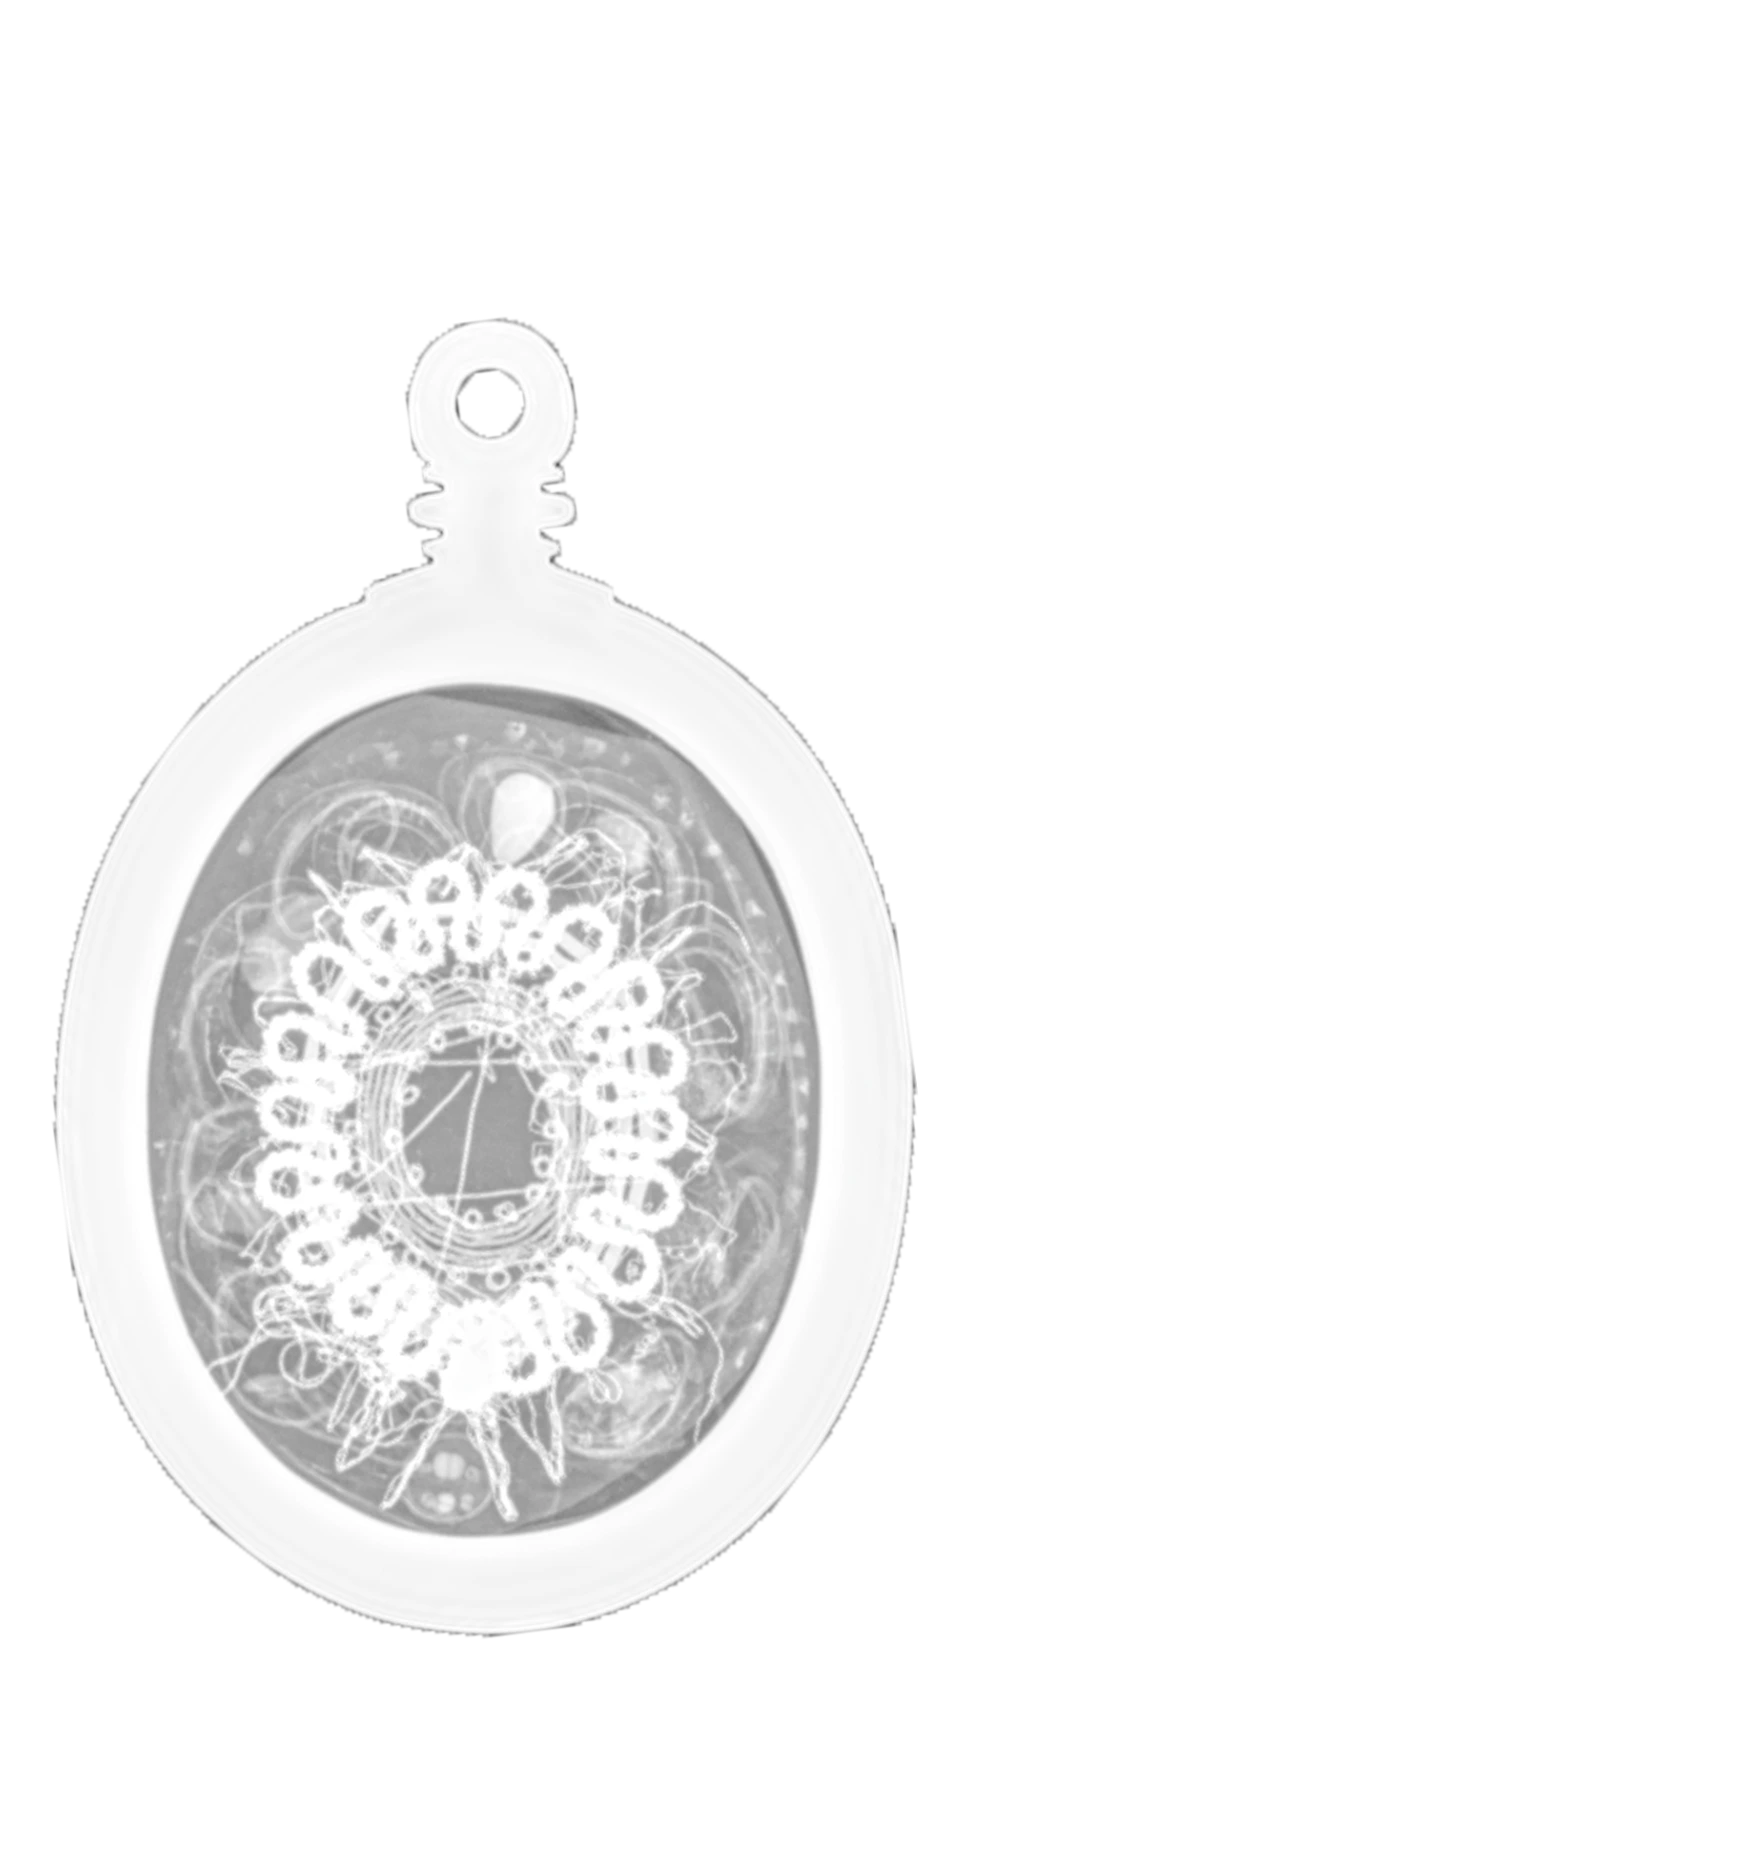
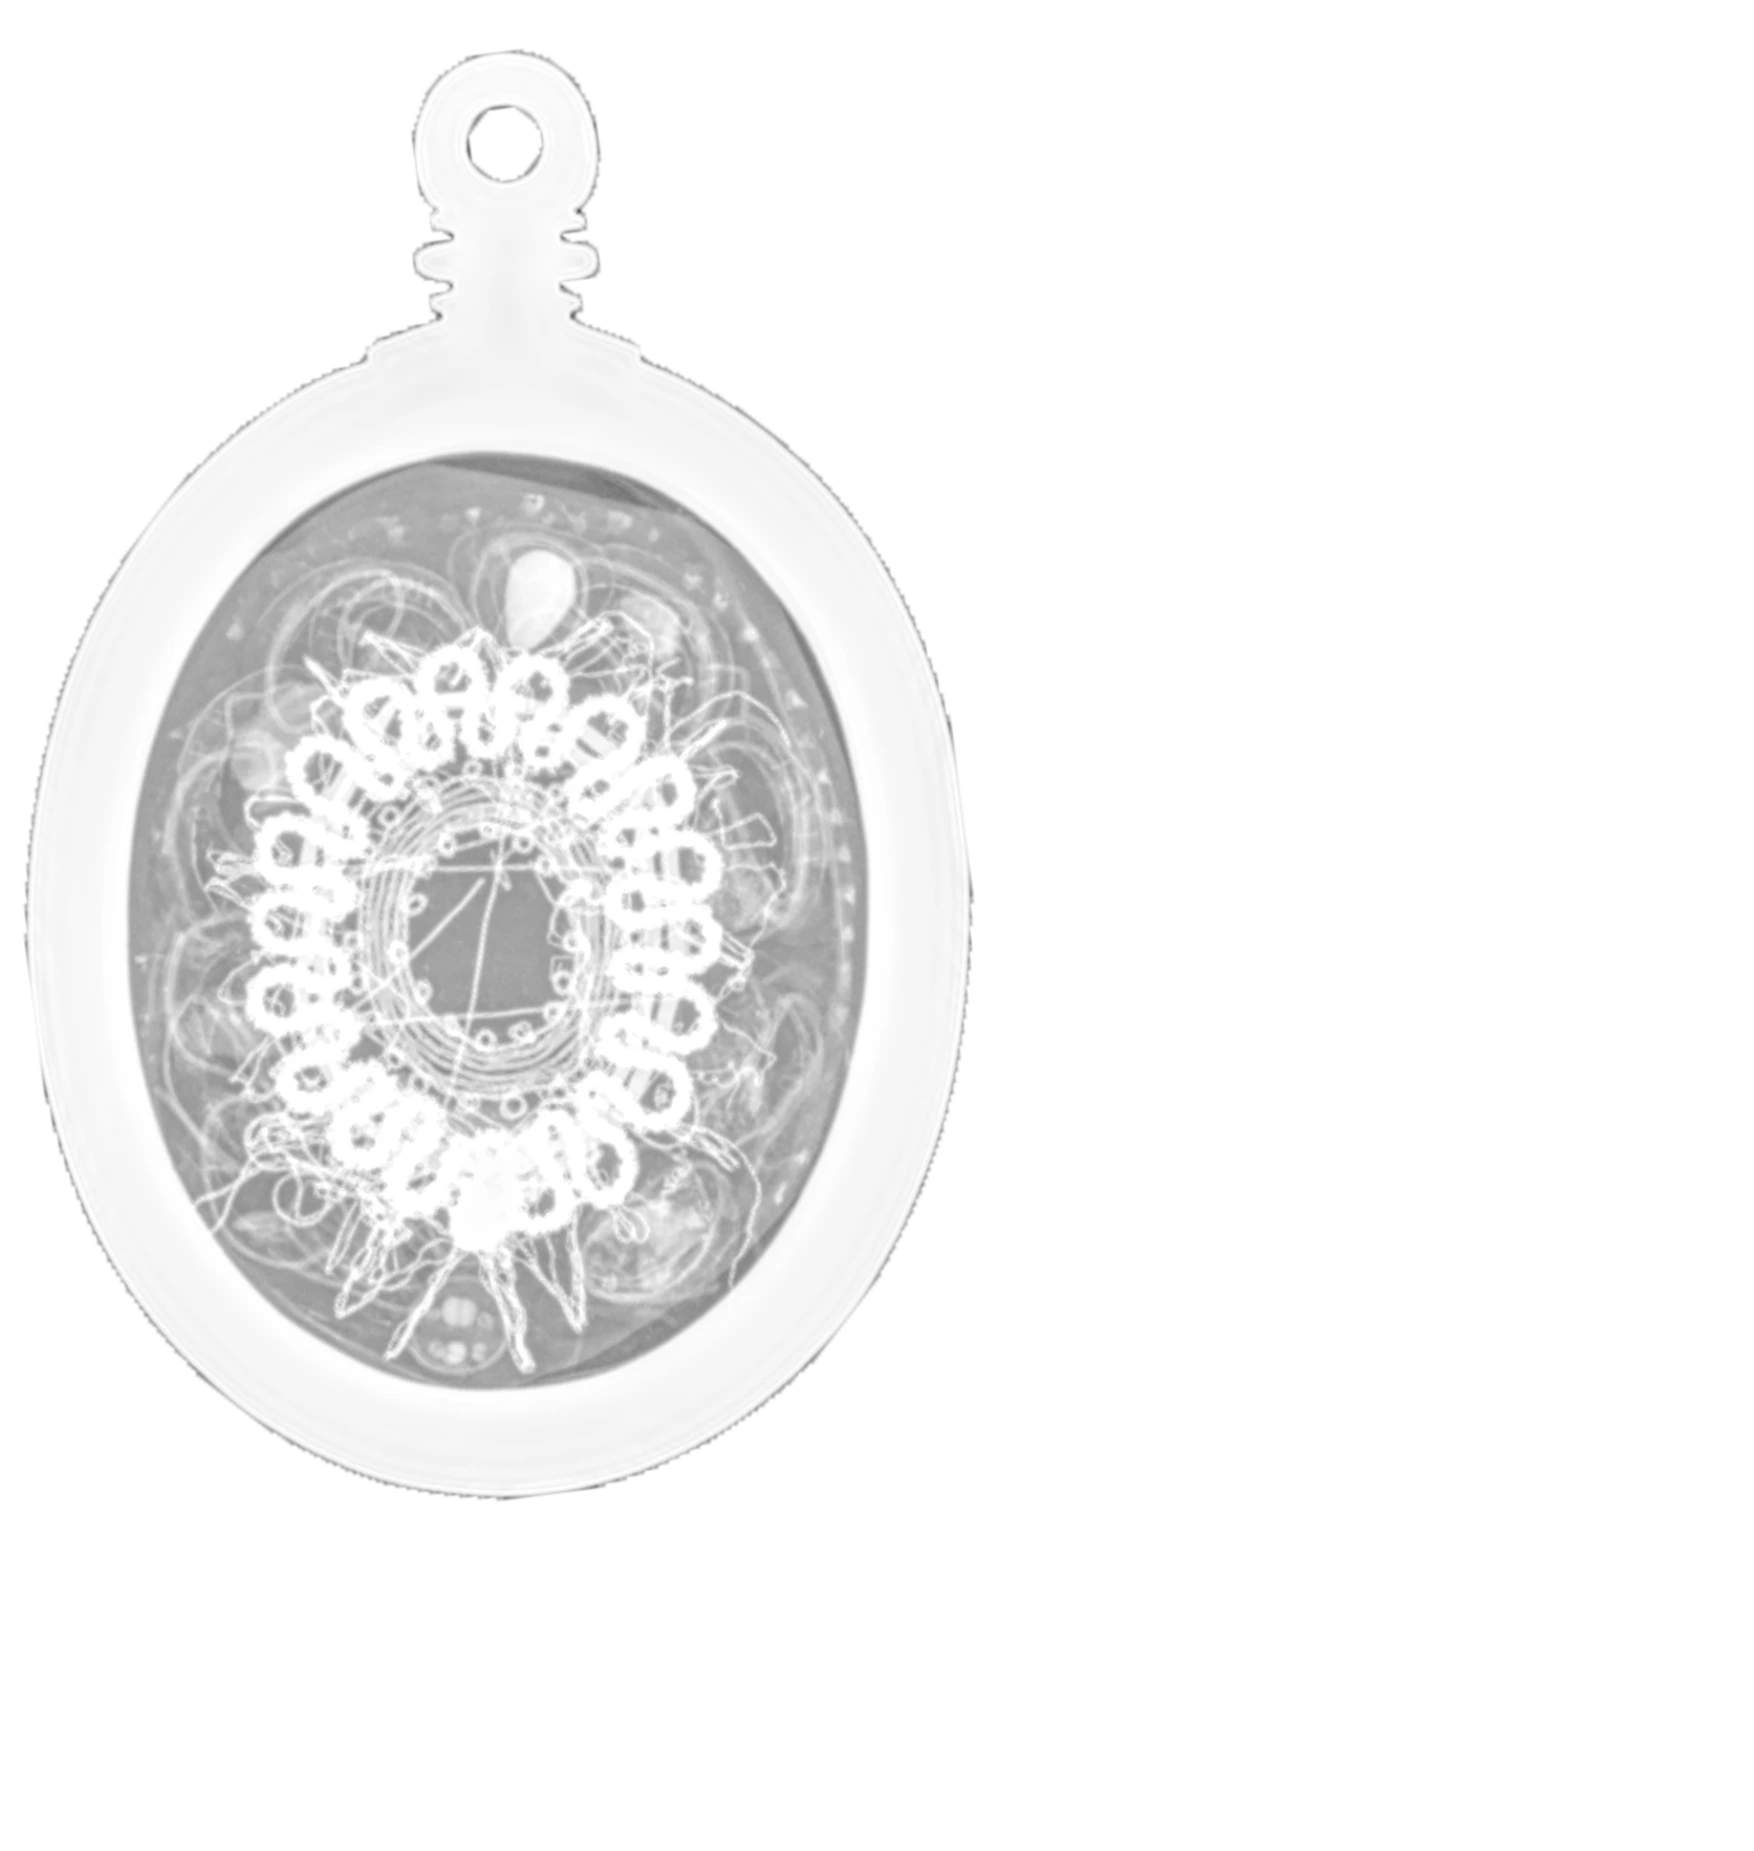
Relicario: endereza el original (registrado con el RX) + micro1 sin fragmento
Tres correcciones del feedback:
- INCLINADO: el RELICARIOORIGINAL venia inclinado ~8° y desplazado respecto al
  RELICARIORX (el equipo los entrego desalineados). Medido por busqueda de
  registro (IoU): NO era rotacion sino desplazamiento (centroides a ~96px).
  Ahora ambos se colocan por centroide en la posicion del rayos X del composite
  (donde apuntan las flechas) -> el crossfade calza y la reliquia queda derecha.
- micro1 traia un pedazo del ultimo circulo: el recorte del titulo MICROSCOPIA
  agarraba el borde inferior del circulo 4. Bajado el recorte (y>0.93) -> limpio.
- Secuencia mas clara: el original aparece y sostiene, LUEGO entra el rayos X
  (a su opacidad de slider), y recien despues las microscopias.

Verificado con render: crossfade original<->rx alineado y derecho, flechas
apuntando a la reliquia, micro1 sin fragmento. Cache-bust ?v=6, config.js?v=11.

diff --git a/relicario/config.js b/relicario/config.js
@@ -29,22 +29,22 @@ window.MUSEO_CONFIG = {
   // Geometría de las capas (full-frame) sobre el RA6. Todo se posiciona igual.
   // Como el RA6 son solo letras, la posición es preferencia -> align.html.
   overlay: {
-    src: "assets/original.webp?v=5",      // lo que muestra align.html
+    src: "assets/original.webp?v=6",      // lo que muestra align.html
     width: 1.55,
     height: 1.636,
     offsetX: 0.36,
     offsetY: 0.0
   },
 
-  original: "assets/original.webp?v=5",   // foto a color (base)
-  rx:       "assets/rx.webp?v=5",         // radiografía (opacidad por slider)
+  original: "assets/original.webp?v=6",   // foto a color (base)
+  rx:       "assets/rx.webp?v=6",         // radiografía (opacidad por slider)
 
   intervaloReveal: 0.9,
   reveals: [
-    "assets/micro1.webp?v=5",             // columna esmaltada + flecha (+ título)
-    "assets/micro2.webp?v=5",             // cristales verdes + flecha
-    "assets/micro3.webp?v=5",             // concreción mineral + flecha
-    "assets/micro4.webp?v=5"              // figura azul + flecha
+    "assets/micro1.webp?v=6",             // columna esmaltada + flecha (+ título)
+    "assets/micro2.webp?v=6",             // cristales verdes + flecha
+    "assets/micro3.webp?v=6",             // concreción mineral + flecha
+    "assets/micro4.webp?v=6"              // figura azul + flecha
   ],
 
   // 4 microscopías tocables (coords normalizadas sobre el marco) — solo para el zoom.

diff --git a/relicario/relicario-engine.js b/relicario/relicario-engine.js
@@ -107,10 +107,11 @@ async function start() {
   const placa = $("loading").querySelector(".creditos"); if (placa) $("scan").appendChild(placa.cloneNode(true));
   $("loading").style.display = "none";
 
-  // Tiempos (s desde la detección)
+  // Tiempos (s desde la detección): PRIMERO el original (y sostiene), LUEGO el
+  // rayos X entra a su opacidad de slider, y recién después las microscopías.
   const T_ORIG = [0.2, 1.0];   // original aparece
-  const T_RX   = [1.0, 1.7];   // rayos X entra (a su opacidad de slider)
-  const T_MIC0 = 2.2;          // primera microscopía
+  const T_RX   = [1.5, 2.2];   // rayos X entra (a su opacidad de slider)
+  const T_MIC0 = 2.9;          // primera microscopía
 
   renderer.setAnimationLoop(() => {
     const t = clock.getElapsedTime() - startT;

diff --git a/relicario/index.html b/relicario/index.html
@@ -72,7 +72,7 @@
   <div id="zoom"><img id="zoom-img" alt="Microscopía ampliada" /></div>
   <div id="error"></div>
 
-  <script src="config.js?v=10"></script>
-  <script type="module" src="relicario-engine.js?v=1"></script>
+  <script src="config.js?v=11"></script>
+  <script type="module" src="relicario-engine.js?v=2"></script>
 </body>
 </html>